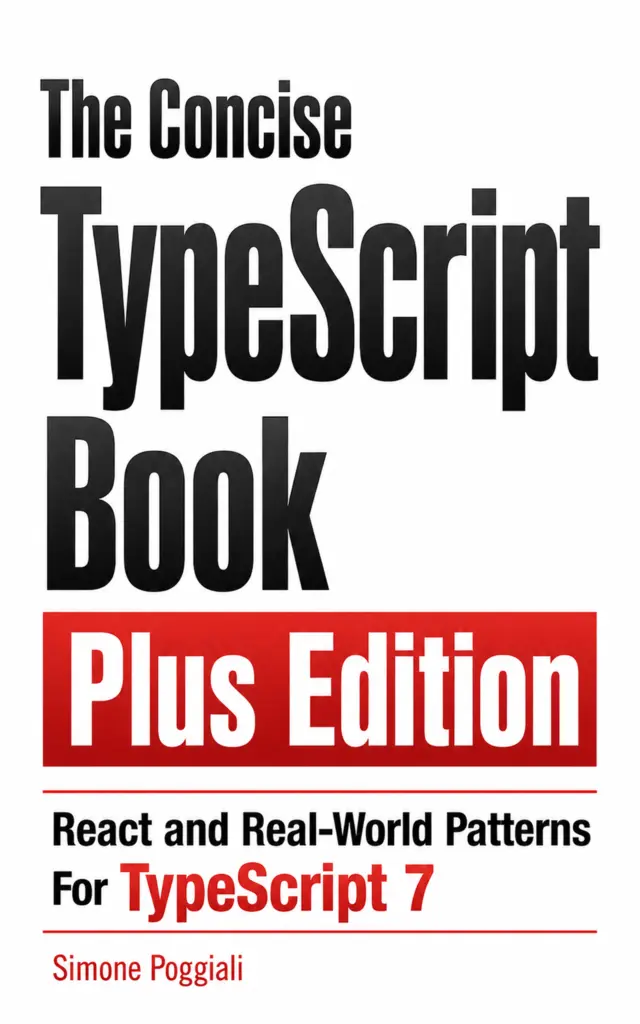
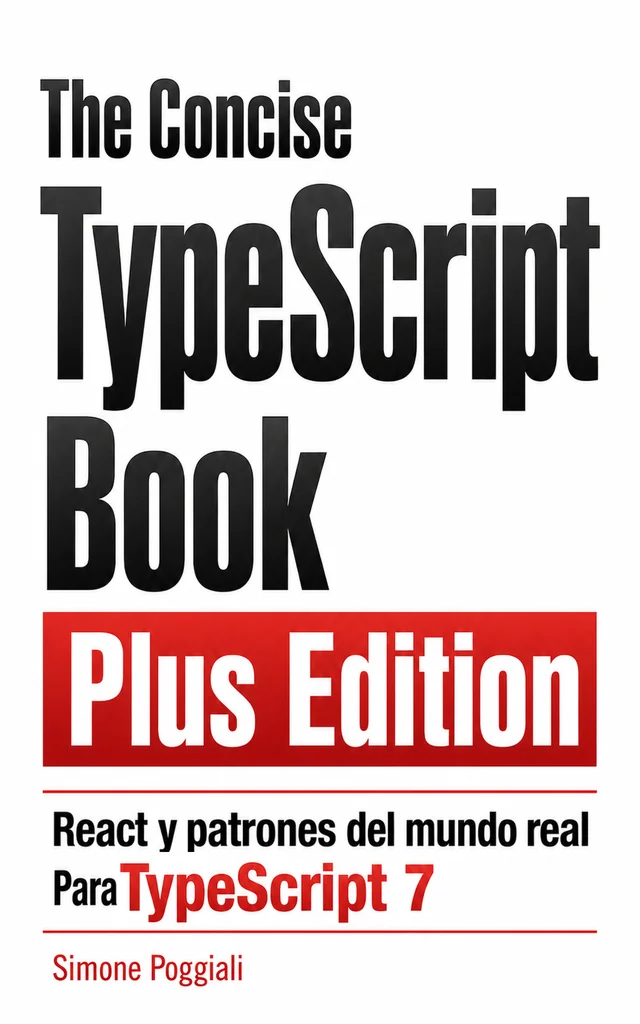
Add Portuguese and Spanish Plus Edition purchase links and localized covers (#275)

Changed region(s): [[0.0938, 0.7812, 0.9375, 0.9062]]

diff --git a/website/src/data/plusEdition.ts b/website/src/data/plusEdition.ts
@@ -90,6 +90,8 @@ export const PLUS_EDITION = {
 	titles: {
 		en: 'The Concise TypeScript Book Plus Edition: React and Real-World Patterns For TypeScript 7',
 		it: 'The Concise TypeScript Book Plus Edition (Versione italiana): React e pattern pratici per TypeScript 7 (Italian Edition)',
+		pt: 'The Concise TypeScript Book Plus Edition (versão em português): React e padrões do mundo real para TypeScript 7',
+		es: 'The Concise TypeScript Book Plus Edition (versión en español): React y patrones del mundo real para TypeScript 7',
 	},
 	editions: {
 		en: {
@@ -101,6 +103,20 @@ export const PLUS_EDITION = {
 			label: 'Edizione italiana',
 			kindleAsin: 'B0H95PLXHX',
 			paperbackAsin: 'B0H96R5HZD',
+		},
+		pt: {
+			label: 'Edição em português (Brasil)',
+			kindleAsin: 'B0HM6RT27Y',
+			paperbackAsin: 'B0HMG1CNPX',
+			kindleDomain: 'amazon.com.br',
+			paperbackDomain: 'amazon.com',
+		},
+		es: {
+			label: 'Edición en español',
+			kindleAsin: 'B0HM6ZNYBP',
+			paperbackAsin: 'B0HMFP27WJ',
+			kindleDomain: 'amazon.es',
+			paperbackDomain: 'amazon.es',
 		},
 	},
 } as const;
@@ -148,7 +164,7 @@ export const PLUS_EDITION_COPY = {
 				'A concise, practical guide to TypeScript 7, expanded with exclusive chapters that connect the type system to the work you do every day.',
 			primaryAction: 'Choose Kindle or paperback',
 			secondaryAction: 'See what’s new',
-			availability: 'English and Italian editions · Available worldwide through Amazon',
+			availability: 'English, Italian, Portuguese, and Spanish editions · Available worldwide through Amazon',
 			introEyebrow: 'From understanding TypeScript to using it well',
 			introTitle: 'New content built for real projects',
 			introText:
@@ -247,7 +263,7 @@ export const PLUS_EDITION_COPY = {
 				'دليل موجز وعملي إلى TypeScript 7، موسّع بفصول حصرية تربط نظام الأنواع بالعمل الذي تؤديه كل يوم.',
 			primaryAction: 'اختر إصدار Kindle أو الغلاف الورقي',
 			secondaryAction: 'اطّلع على الجديد',
-			availability: 'إصداران باللغتين الإنجليزية والإيطالية · متوفران عالميًا عبر Amazon',
+			availability: 'إصدارات باللغات الإنجليزية والإيطالية والبرتغالية والإسبانية · متوفرة عالميًا عبر Amazon',
 			introEyebrow: 'من فهم TypeScript إلى استخدامها بفاعلية',
 			introTitle: 'محتوى جديد مصمم للمشاريع الحقيقية',
 			introText:
@@ -346,7 +362,7 @@ export const PLUS_EDITION_COPY = {
 				'Краткое практическое руководство по TypeScript 7, дополненное эксклюзивными главами, которые связывают систему типов с вашей повседневной работой.',
 			primaryAction: 'Выбрать версию для Kindle или в мягкой обложке',
 			secondaryAction: 'Посмотреть, что нового',
-			availability: 'Издания на английском и итальянском языках · Доступны по всему миру через Amazon',
+			availability: 'Издания на английском, итальянском, португальском и испанском языках · Доступны по всему миру через Amazon',
 			introEyebrow: 'От понимания TypeScript к уверенному применению',
 			introTitle: 'Новые материалы для реальных проектов',
 			introText:
@@ -445,7 +461,7 @@ export const PLUS_EDITION_COPY = {
 				'Un guide concis et pratique de TypeScript 7, enrichi de chapitres exclusifs qui relient le système de types à votre travail quotidien.',
 			primaryAction: 'Choisir Kindle ou broché',
 			secondaryAction: 'Voir les nouveautés',
-			availability: 'Éditions anglaise et italienne · Disponibles dans le monde entier sur Amazon',
+			availability: 'Éditions anglaise, italienne, portugaise et espagnole · Disponibles dans le monde entier sur Amazon',
 			introEyebrow: 'De la compréhension de TypeScript à sa bonne utilisation',
 			introTitle: 'Du nouveau contenu conçu pour des projets concrets',
 			introText:
@@ -544,7 +560,7 @@ export const PLUS_EDITION_COPY = {
 				'TypeScript 7 を簡潔かつ実践的に学べるガイドです。型システムと日々の開発を結び付ける本書限定の章を追加しています。',
 			primaryAction: 'Kindle またはペーパーバックを選ぶ',
 			secondaryAction: '新しい内容を見る',
-			availability: '英語版とイタリア語版 · Amazon を通じて世界中で購入可能',
+			availability: '英語版・イタリア語版・ポルトガル語版・スペイン語版 · Amazon を通じて世界中で購入可能',
 			introEyebrow: 'TypeScript の理解から効果的な活用へ',
 			introTitle: '実際のプロジェクト向けの新しい内容',
 			introText:
@@ -642,7 +658,7 @@ export const PLUS_EDITION_COPY = {
 			lead: '一本精炼、实用的 TypeScript 7 指南，新增独家章节，把类型系统和日常开发工作连接起来。',
 			primaryAction: '选择 Kindle 或平装版',
 			secondaryAction: '查看新增内容',
-			availability: '英文版和意大利文版 · 通过 Amazon 面向全球发售',
+			availability: '英文版、意大利文版、葡萄牙文版和西班牙文版 · 通过 Amazon 面向全球发售',
 			introEyebrow: '从理解 TypeScript 到真正用好它',
 			introTitle: '为真实项目编写的新内容',
 			introText:
@@ -729,7 +745,7 @@ export const PLUS_EDITION_COPY = {
 				'Una guida concisa e pratica a TypeScript 7, ampliata con capitoli esclusivi che collegano il sistema di tipi al lavoro quotidiano.',
 			primaryAction: 'Scegli Kindle o cartaceo',
 			secondaryAction: 'Scopri le novità',
-			availability: 'Edizioni inglese e italiana · Disponibile in tutto il mondo tramite Amazon',
+			availability: 'Edizioni inglese, italiana, portoghese e spagnola · Disponibile in tutto il mondo tramite Amazon',
 			introEyebrow: 'Dal capire TypeScript al saperlo usare bene',
 			introTitle: 'Nuovi contenuti pensati per progetti reali',
 			introText:
@@ -823,12 +839,12 @@ export const PLUS_EDITION_COPY = {
 		},
 		landing: {
 			heroEyebrow: 'A edição paga e expandida · Atualizada para TypeScript 7',
-			title: PLUS_EDITION.titles.en,
+			title: PLUS_EDITION.titles.pt,
 			lead:
 				'Um guia conciso e prático de TypeScript 7, expandido com capítulos exclusivos que conectam o sistema de tipos ao trabalho do dia a dia.',
 			primaryAction: 'Escolha Kindle ou brochura',
 			secondaryAction: 'Veja as novidades',
-			availability: 'Edições em inglês e italiano · Disponível mundialmente pela Amazon',
+			availability: 'Edições em inglês, italiano, português e espanhol · Disponível mundialmente pela Amazon',
 			introEyebrow: 'De entender TypeScript a usá-lo bem',
 			introTitle: 'Novo conteúdo criado para projetos reais',
 			introText:
@@ -927,7 +943,7 @@ export const PLUS_EDITION_COPY = {
 				'En koncis och praktisk guide till TypeScript 7, utökad med exklusiva kapitel som kopplar typsystemet till arbetet du gör varje dag.',
 			primaryAction: 'Välj Kindle eller pocket',
 			secondaryAction: 'Se vad som är nytt',
-			availability: 'Engelsk och italiensk utgåva · Tillgänglig världen över via Amazon',
+			availability: 'Engelsk, italiensk, portugisisk och spansk utgåva · Tillgänglig världen över via Amazon',
 			introEyebrow: 'Från att förstå TypeScript till att använda det väl',
 			introTitle: 'Nytt innehåll byggt för riktiga projekt',
 			introText:
@@ -1026,7 +1042,7 @@ export const PLUS_EDITION_COPY = {
 				'Кратко и практично ръководство за TypeScript 7, разширено с ексклузивни глави, които свързват типовата система с ежедневната работа.',
 			primaryAction: 'Избери Kindle или меки корици',
 			secondaryAction: 'Виж новото съдържание',
-			availability: 'Английско и италианско издание · Достъпно по целия свят чрез Amazon',
+			availability: 'Английско, италианско, португалско и испанско издание · Достъпно по целия свят чрез Amazon',
 			introEyebrow: 'От разбиране на TypeScript към добро използване',
 			introTitle: 'Ново съдържание за реални проекти',
 			introText:
@@ -1120,12 +1136,12 @@ export const PLUS_EDITION_COPY = {
 		},
 		landing: {
 			heroEyebrow: 'La edición ampliada y de pago · Actualizada para TypeScript 7',
-			title: PLUS_EDITION.titles.en,
+			title: PLUS_EDITION.titles.es,
 			lead:
 				'Una guía concisa y práctica de TypeScript 7, ampliada con capítulos exclusivos que conectan el sistema de tipos con el trabajo diario.',
 			primaryAction: 'Elige Kindle o tapa blanda',
 			secondaryAction: 'Ver novedades',
-			availability: 'Ediciones en inglés e italiano · Disponible en todo el mundo a través de Amazon',
+			availability: 'Ediciones en inglés, italiano, portugués y español · Disponible en todo el mundo a través de Amazon',
 			introEyebrow: 'De entender TypeScript a usarlo bien',
 			introTitle: 'Nuevo contenido creado para proyectos reales',
 			introText:
@@ -1224,7 +1240,7 @@ export const PLUS_EDITION_COPY = {
 				'타입 시스템을 일상적인 개발 작업과 연결하는 독점 챕터로 확장된 간결하고 실용적인 TypeScript 7 안내서입니다.',
 			primaryAction: 'Kindle 또는 종이책 선택하기',
 			secondaryAction: '새로운 내용 보기',
-			availability: '영어판과 이탈리아어판 · Amazon을 통해 전 세계에서 구매 가능',
+			availability: '영어판, 이탈리아어판, 포르투갈어판, 스페인어판 · Amazon을 통해 전 세계에서 구매 가능',
 			introEyebrow: 'TypeScript를 이해하는 데서 제대로 활용하는 데까지',
 			introTitle: '실제 프로젝트를 위해 만든 새로운 콘텐츠',
 			introText:
@@ -1323,7 +1339,7 @@ export const PLUS_EDITION_COPY = {
 				'Panduan TypeScript 7 yang ringkas dan praktis, diperluas dengan bab eksklusif yang menghubungkan sistem tipe dengan pekerjaan Anda sehari-hari.',
 			primaryAction: 'Pilih Kindle atau buku cetak',
 			secondaryAction: 'Lihat yang baru',
-			availability: 'Edisi bahasa Inggris dan Italia · Tersedia di seluruh dunia melalui Amazon',
+			availability: 'Edisi bahasa Inggris, Italia, Portugis, dan Spanyol · Tersedia di seluruh dunia melalui Amazon',
 			introEyebrow: 'Dari memahami TypeScript hingga menggunakannya dengan baik',
 			introTitle: 'Konten baru yang dibuat untuk proyek nyata',
 			introText:
@@ -1422,7 +1438,7 @@ export const PLUS_EDITION_COPY = {
 				'Ein prägnanter, praxisorientierter Leitfaden zu TypeScript 7, erweitert um exklusive Kapitel, die das Typsystem mit Ihrer täglichen Arbeit verbinden.',
 			primaryAction: 'Kindle oder Taschenbuch wählen',
 			secondaryAction: 'Neuerungen ansehen',
-			availability: 'Englische und italienische Ausgabe · Weltweit über Amazon erhältlich',
+			availability: 'Englische, italienische, portugiesische und spanische Ausgabe · Weltweit über Amazon erhältlich',
 			introEyebrow: 'TypeScript verstehen und richtig einsetzen',
 			introTitle: 'Neue Inhalte für echte Projekte',
 			introText:
@@ -1521,7 +1537,7 @@ export const PLUS_EDITION_COPY = {
 				'Zwięzły, praktyczny przewodnik po TypeScript 7, rozszerzony o ekskluzywne rozdziały łączące system typów z codzienną pracą.',
 			primaryAction: 'Wybierz Kindle lub miękką oprawę',
 			secondaryAction: 'Zobacz nowości',
-			availability: 'Wydania angielskie i włoskie · Dostępne na całym świecie na Amazonie',
+			availability: 'Wydania angielskie, włoskie, portugalskie i hiszpańskie · Dostępne na całym świecie na Amazonie',
 			introEyebrow: 'Od zrozumienia TypeScript do sprawnego korzystania z niego',
 			introTitle: 'Nowe treści stworzone dla rzeczywistych projektów',
 			introText:
@@ -1620,7 +1636,7 @@ export const PLUS_EDITION_COPY = {
 				'Stručný, praktický průvodce TypeScriptem 7, rozšířený o exkluzivní kapitoly, které propojují typový systém s vaší každodenní prací.',
 			primaryAction: 'Vyberte Kindle nebo brožované vydání',
 			secondaryAction: 'Podívejte se, co je nového',
-			availability: 'Anglické a italské vydání · Dostupné po celém světě prostřednictvím Amazonu',
+			availability: 'Anglické, italské, portugalské a španělské vydání · Dostupné po celém světě prostřednictvím Amazonu',
 			introEyebrow: 'Od pochopení TypeScriptu k jeho správnému využití',
 			introTitle: 'Nový obsah pro skutečné projekty',
 			introText:
@@ -1719,7 +1735,7 @@ export const PLUS_EDITION_COPY = {
 				'Một hướng dẫn TypeScript 7 súc tích và thực tế, được mở rộng với các chương độc quyền kết nối hệ thống kiểu với công việc phát triển hằng ngày.',
 			primaryAction: 'Chọn Kindle hoặc bìa mềm',
 			secondaryAction: 'Xem nội dung mới',
-			availability: 'Phiên bản tiếng Anh và tiếng Ý · Có trên Amazon trên toàn thế giới',
+			availability: 'Phiên bản tiếng Anh, tiếng Ý, tiếng Bồ Đào Nha và tiếng Tây Ban Nha · Có trên Amazon trên toàn thế giới',
 			introEyebrow: 'Từ hiểu TypeScript đến sử dụng hiệu quả',
 			introTitle: 'Nội dung mới dành cho các dự án thực tế',
 			introText:
@@ -1818,7 +1834,7 @@ export const PLUS_EDITION_COPY = {
 				'คู่มือ TypeScript 7 ที่กระชับและนำไปใช้ได้จริง เพิ่มเติมด้วยบทเฉพาะฉบับที่เชื่อมโยงระบบชนิดข้อมูลเข้ากับงานที่คุณทำทุกวัน',
 			primaryAction: 'เลือก Kindle หรือปกอ่อน',
 			secondaryAction: 'ดูว่ามีอะไรใหม่',
-			availability: 'ฉบับภาษาอังกฤษและภาษาอิตาลี · วางจำหน่ายทั่วโลกผ่าน Amazon',
+			availability: 'ฉบับภาษาอังกฤษ ภาษาอิตาลี ภาษาโปรตุเกส และภาษาสเปน · วางจำหน่ายทั่วโลกผ่าน Amazon',
 			introEyebrow: 'จากการเข้าใจ TypeScript สู่การใช้งานอย่างมีประสิทธิภาพ',
 			introTitle: 'เนื้อหาใหม่ที่สร้างขึ้นสำหรับโปรเจกต์จริง',
 			introText:
@@ -1918,7 +1934,7 @@ export const PLUS_EDITION_COPY = {
 				'Tür sistemini her gün yaptığınız işlerle buluşturan, yalnızca bu sürüme özel bölümlerle genişletilmiş, TypeScript 7 için özlü ve pratik bir rehber.',
 			primaryAction: 'Kindle veya ciltsiz sürümü seçin',
 			secondaryAction: 'Yenilikleri görün',
-			availability: 'İngilizce ve İtalyanca sürümler · Amazon üzerinden dünya çapında sunulur',
+			availability: 'İngilizce, İtalyanca, Portekizce ve İspanyolca sürümler · Amazon üzerinden dünya çapında sunulur',
 			introEyebrow: 'TypeScript\'i anlamaktan doğru kullanmaya',
 			introTitle: 'Gerçek projeler için hazırlanmış yeni içerik',
 			introText:

diff --git a/website/e2e/plus-edition.spec.ts b/website/e2e/plus-edition.spec.ts
@@ -1,0 +1,81 @@
+import { expect, test } from '@playwright/test';
+
+const translations = [
+  {
+    locale: 'pt-BR',
+    path: 'pt-br',
+    edition: 'pt',
+    cover: 'pt_BR',
+    title: 'React e padrões do mundo real para TypeScript 7',
+    kindle: 'https://www.amazon.com.br/dp/B0HM6RT27Y',
+    paperback: 'https://www.amazon.com/dp/B0HMG1CNPX',
+    kindleStore: 'Amazon.com.br',
+    paperbackStore: 'Amazon.com',
+  },
+  {
+    locale: 'es-ES',
+    path: 'es-es',
+    edition: 'es',
+    cover: 'es_ES',
+    title: 'React y patrones del mundo real para TypeScript 7',
+    kindle: 'https://www.amazon.es/dp/B0HM6ZNYBP',
+    paperback: 'https://www.amazon.es/dp/B0HMFP27WJ',
+    kindleStore: 'Amazon.es',
+    paperbackStore: 'Amazon.es',
+  },
+];
+
+for (const translation of translations) {
+  test.describe(`${translation.locale} Plus Edition`, () => {
+    test.use({ locale: translation.locale });
+
+    test('shows the localized cover and detects the translated edition', async ({ page }) => {
+      await page.goto(`${translation.path}/plus-edition/`);
+      await expect(page.locator('.plus-landing h1')).toContainText(translation.title);
+      await expect(page.locator('[data-edition-select]')).toHaveValue(translation.edition);
+      const cover = page.locator('.plus-landing__cover img');
+      await expect(cover).toHaveAttribute(
+        'src', `/typescript-book/images/plus-edition-cover_${translation.cover}.webp`,
+      );
+      await expect(cover).toHaveJSProperty('naturalWidth', 640);
+      await expect(cover).toHaveJSProperty('naturalHeight', 1024);
+      await expect(page.locator('[data-format-link="kindle"]')).toHaveAttribute('href', translation.kindle);
+      await expect(page.locator('[data-format-link="paperback"]')).toHaveAttribute('href', translation.paperback);
+      await expect(page.locator('[data-format-link="kindle"] [data-store-name]')).toHaveText(translation.kindleStore);
+      await expect(page.locator('[data-format-link="paperback"] [data-store-name]')).toHaveText(translation.paperbackStore);
+    });
+
+    test('renders translated purchase links without JavaScript', async ({ browser }) => {
+      const context = await browser.newContext({ javaScriptEnabled: false });
+      const page = await context.newPage();
+      try {
+        await page.goto(`http://127.0.0.1:4321/typescript-book/${translation.path}/plus-edition/`);
+        await expect(page.locator('[data-edition-select]')).toHaveValue(translation.edition);
+        await expect(page.locator('[data-format-link="kindle"]')).toHaveAttribute('href', translation.kindle);
+        await expect(page.locator('[data-format-link="paperback"]')).toHaveAttribute('href', translation.paperback);
+      } finally {
+        await context.close();
+      }
+    });
+  });
+}
+
+test('switches all editions while preserving each format’s Amazon store', async ({ page }) => {
+  await page.goto('plus-edition/');
+  const select = page.locator('[data-edition-select]');
+  await expect(select.locator('option')).toHaveCount(4);
+  for (const translation of translations) {
+    await select.selectOption(translation.edition);
+    await expect(page.locator('[data-edition-title]')).toContainText(translation.title);
+    await expect(page.locator('[data-format-link="kindle"]')).toHaveAttribute('href', translation.kindle);
+    await expect(page.locator('[data-format-link="paperback"]')).toHaveAttribute('href', translation.paperback);
+    await expect(page.locator('[data-format-link="kindle"] [data-store-name]')).toHaveText(translation.kindleStore);
+    await expect(page.locator('[data-format-link="paperback"] [data-store-name]')).toHaveText(translation.paperbackStore);
+  }
+  await select.selectOption('it');
+  await expect(page.locator('[data-format-link="kindle"]')).toHaveAttribute('href', 'https://www.amazon.com/dp/B0H95PLXHX');
+  await expect(page.locator('[data-format-link="paperback"]')).toHaveAttribute('href', 'https://www.amazon.com/dp/B0H96R5HZD');
+  await select.selectOption('en');
+  await expect(page.locator('[data-format-link="kindle"]')).toHaveAttribute('href', 'https://www.amazon.com/dp/B0H8RSXC57');
+  await expect(page.locator('[data-format-link="paperback"]')).toHaveAttribute('href', 'https://www.amazon.com/dp/B0H8TTP49G');
+});

diff --git a/website/src/scripts/amazonPurchase.ts b/website/src/scripts/amazonPurchase.ts
@@ -2,22 +2,36 @@ interface EditionConfig {
 	label: string;
 	kindleAsin: string;
 	paperbackAsin: string;
+	kindleDomain?: string;
+	paperbackDomain?: string;
 }
+type EditionKey = 'en' | 'it' | 'pt' | 'es';
 export interface AmazonPurchaseConfig {
 	domains: Record<string, string>;
-	editions: Record<'en' | 'it', EditionConfig>;
-	titles: Record<'en' | 'it', string>;
+	editions: Record<EditionKey, EditionConfig>;
+	titles: Record<EditionKey, string>;
 }
 
 interface PurchaseSelection {
 	domain: string;
-	editionKey: 'en' | 'it';
+	editionKey: EditionKey;
 	kindleUrl: string;
 	paperbackUrl: string;
 }
 
 const DEFAULT_LOCALE = 'en-US';
 const DEFAULT_REGION = 'US';
+
+function getEditionKey(language: string): EditionKey {
+	return language === 'it' || language === 'pt' || language === 'es' ? language : 'en';
+}
+
+export function getAmazonFormatLinks(edition: EditionConfig, domain: string) {
+	return {
+		kindleUrl: `https://www.${edition.kindleDomain || domain}/dp/${edition.kindleAsin}`,
+		paperbackUrl: `https://www.${edition.paperbackDomain || domain}/dp/${edition.paperbackAsin}`,
+	};
+}
 
 export function resolveAmazonPurchase(localeString: string, config: AmazonPurchaseConfig): PurchaseSelection {
 	let locale: Intl.Locale;
@@ -30,14 +44,13 @@ export function resolveAmazonPurchase(localeString: string, config: AmazonPurcha
 
 	const region = locale.region || DEFAULT_REGION;
 	const domain = config.domains[region] || config.domains[DEFAULT_REGION];
-	const editionKey = locale.language.toLowerCase() === 'it' ? 'it' : 'en';
+	const editionKey = getEditionKey(locale.language.toLowerCase());
 	const edition = config.editions[editionKey];
 
 	return {
 		domain,
 		editionKey,
-		kindleUrl: `https://www.${domain}/dp/${edition.kindleAsin}`,
-		paperbackUrl: `https://www.${domain}/dp/${edition.paperbackAsin}`,
+		...getAmazonFormatLinks(edition, domain),
 	};
 }
 
@@ -45,7 +58,7 @@ function updatePurchaseOptions(
 	root: HTMLElement,
 	config: AmazonPurchaseConfig,
 	domain: string,
-	editionKey: 'en' | 'it',
+	editionKey: EditionKey,
 ) {
 	const edition = config.editions[editionKey];
 	const kindleLink = root.querySelector<HTMLAnchorElement>('[data-format-link="kindle"]');
@@ -56,12 +69,16 @@ function updatePurchaseOptions(
 	if (!kindleLink || !paperbackLink || !title || !message) return;
 
 	title.textContent = config.titles[editionKey];
-	kindleLink.href = `https://www.${domain}/dp/${edition.kindleAsin}`;
-	paperbackLink.href = `https://www.${domain}/dp/${edition.paperbackAsin}`;
-	root.querySelectorAll<HTMLElement>('[data-store-name]').forEach((element) => {
-		element.textContent = domain.replace('amazon.', 'Amazon.');
+	const links = getAmazonFormatLinks(edition, domain);
+	kindleLink.href = links.kindleUrl;
+	paperbackLink.href = links.paperbackUrl;
+	const stores = [kindleLink, paperbackLink].map((link) => {
+		const store = new URL(link.href).hostname.replace(/^www\./, '');
+		const storeName = link.querySelector<HTMLElement>('[data-store-name]');
+		if (storeName) storeName.textContent = store.replace('amazon.', 'Amazon.');
+		return store;
 	});
-	message.textContent = `${edition.label} · ${domain}`;
+	message.textContent = `${edition.label} · ${[...new Set(stores)].join(' / ')}`;
 }
 
 export function initializeAmazonPurchaseOptions(root: HTMLElement) {
@@ -75,7 +92,7 @@ export function initializeAmazonPurchaseOptions(root: HTMLElement) {
 
 	select.value = selection.editionKey;
 	select.addEventListener('change', () => {
-		updatePurchaseOptions(root, config, selection.domain, select.value === 'it' ? 'it' : 'en');
+		updatePurchaseOptions(root, config, selection.domain, getEditionKey(select.value));
 	});
 	updatePurchaseOptions(root, config, selection.domain, selection.editionKey);
 }
